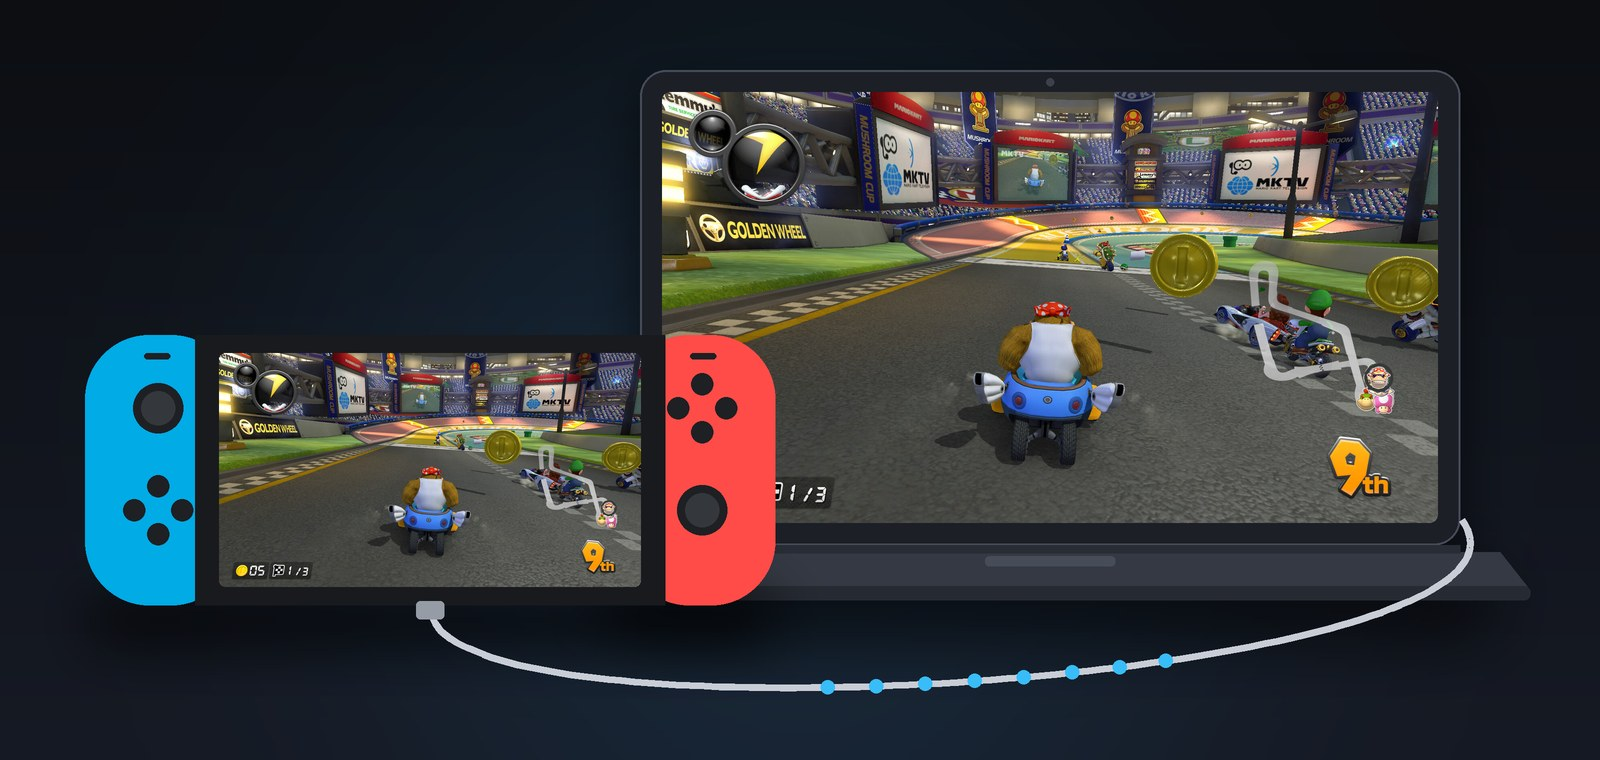
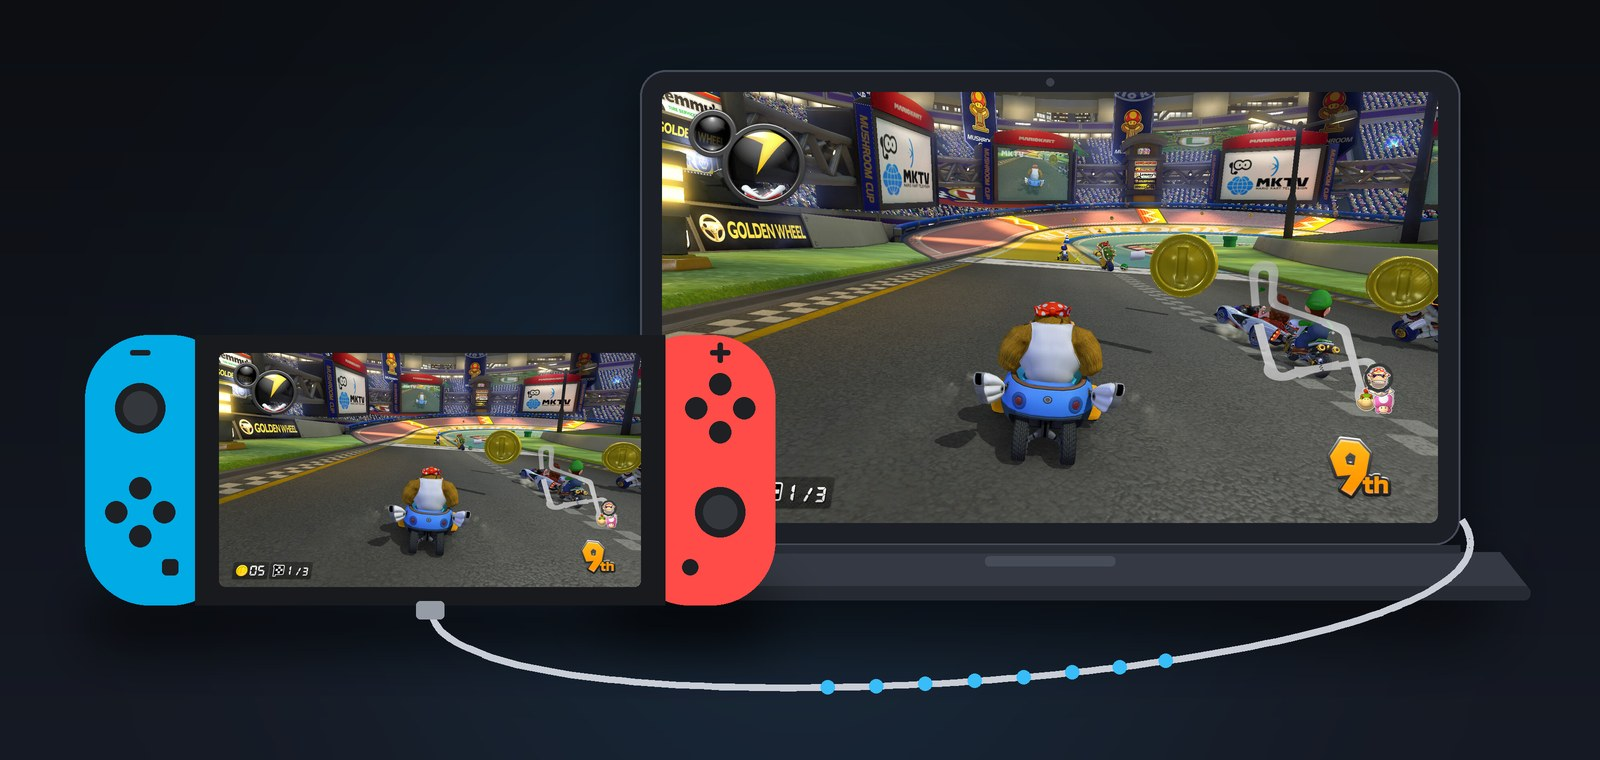
Viewer: the REC timer at the top left (under the stats overlay when it is on); README picture: the Joy-Con controls centred, capture and HOME buttons

diff --git a/tools/gen_readme_hero.py b/tools/gen_readme_hero.py
@@ -66,12 +66,17 @@ def stick(x, y):
 def btns(x, y, r=11, gap=24):
     for dx, dy in ((0, -gap), (0, gap), (-gap, 0), (gap, 0)):
         d.ellipse(P(x + dx - r, y + dy - r, x + dx + r, y + dy + r), fill=(30, 32, 36))
-stick(bx0 - jw / 2 + 18, cy - 62)
-btns(bx0 - jw / 2 + 18, cy + 40)
-btns(bx1 + jw / 2 - 18, cy - 62)
-stick(bx1 + jw / 2 - 18, cy + 40)
-d.rounded_rectangle(P(bx0 - jw / 2 + 4, by0 + 18, bx0 - jw / 2 + 30, by0 + 24), 3 * S, fill=(30, 32, 36))   # minus
-d.rounded_rectangle(P(bx1 + jw / 2 - 30, by0 + 18, bx1 + jw / 2 - 4, by0 + 24), 3 * S, fill=(30, 32, 36))   # plus
+# the controls centred on each Joy-Con (the visible part: jw wide)
+lcx, rcx = bx0 - jw / 2, bx1 + jw / 2
+stick(lcx, cy - 62)
+btns(lcx, cy + 42)
+btns(rcx, cy - 62)
+stick(rcx, cy + 42)
+d.rounded_rectangle(P(lcx - 10, by0 + 15, lcx + 10, by0 + 20), 2 * S, fill=(30, 32, 36))     # minus
+d.rounded_rectangle(P(rcx - 10, by0 + 15, rcx + 10, by0 + 20), 2 * S, fill=(30, 32, 36))     # plus
+d.rounded_rectangle(P(rcx - 2.5, by0 + 7.5, rcx + 2.5, by0 + 27.5), 2 * S, fill=(30, 32, 36))
+d.rounded_rectangle(P(lcx + 22, by1 - 46, lcx + 38, by1 - 30), 4 * S, fill=(30, 32, 36))     # capture
+d.ellipse(P(rcx - 38, by1 - 46, rcx - 22, by1 - 30), fill=(30, 32, 36))                    # home
 screen(P(bx0 + 24, by0 + 18, bx1 - 24, by1 - 18), 6 * S)
 
 # ---- the cable: from the Switch's bottom to the laptop's side ----

diff --git a/tools/raw-recv/ui.h b/tools/raw-recv/ui.h
@@ -389,7 +389,7 @@ static void ui_drawer(SDL_Renderer *ren, float W)
 
 /* ---- over the game ------------------------------------------------------ */
 
-/* v0.7.12: while recording, a "REC 1:23" pill at the top of the picture
+/* v0.7.12: while recording, a "REC 1:23" pill at the top left of the picture
  * (drawn on the screen only - the recording keeps the console's frames) */
 static void ui_rec_badge(SDL_Renderer *ren, int W, int H)
 {
@@ -405,7 +405,10 @@ static void ui_rec_badge(SDL_Renderer *ren, int W, int H)
     char t[32];
     if (s >= 3600) snprintf(t, sizeof(t), "REC %d:%02d:%02d", s / 3600, s / 60 % 60, s % 60);
     else snprintf(t, sizeof(t), "REC %d:%02d", s / 60, s % 60);
-    const float tw = text_width(t, 15, 1), w = tw + 46, x = (w720 - w) / 2, y = 14;
+    /* top left, under the stats overlay when it is on */
+    const float tw = text_width(t, 15, 1), w = tw + 46, x = 12;
+    const float y = g_hud == HUD_FPS ? 58 : g_hud == HUD_GRAPHS ? 258 : g_hud == HUD_FULL ? 512 : 12;
+    (void)w720;
     ui_rrect(ren, x, y, w, 32, 16, (SDL_Color){ 18, 20, 25, 215 });
     /* the dot breathes, once a second */
     const double ph = (double)(SDL_GetTicks() % 1000) / 1000.0;
